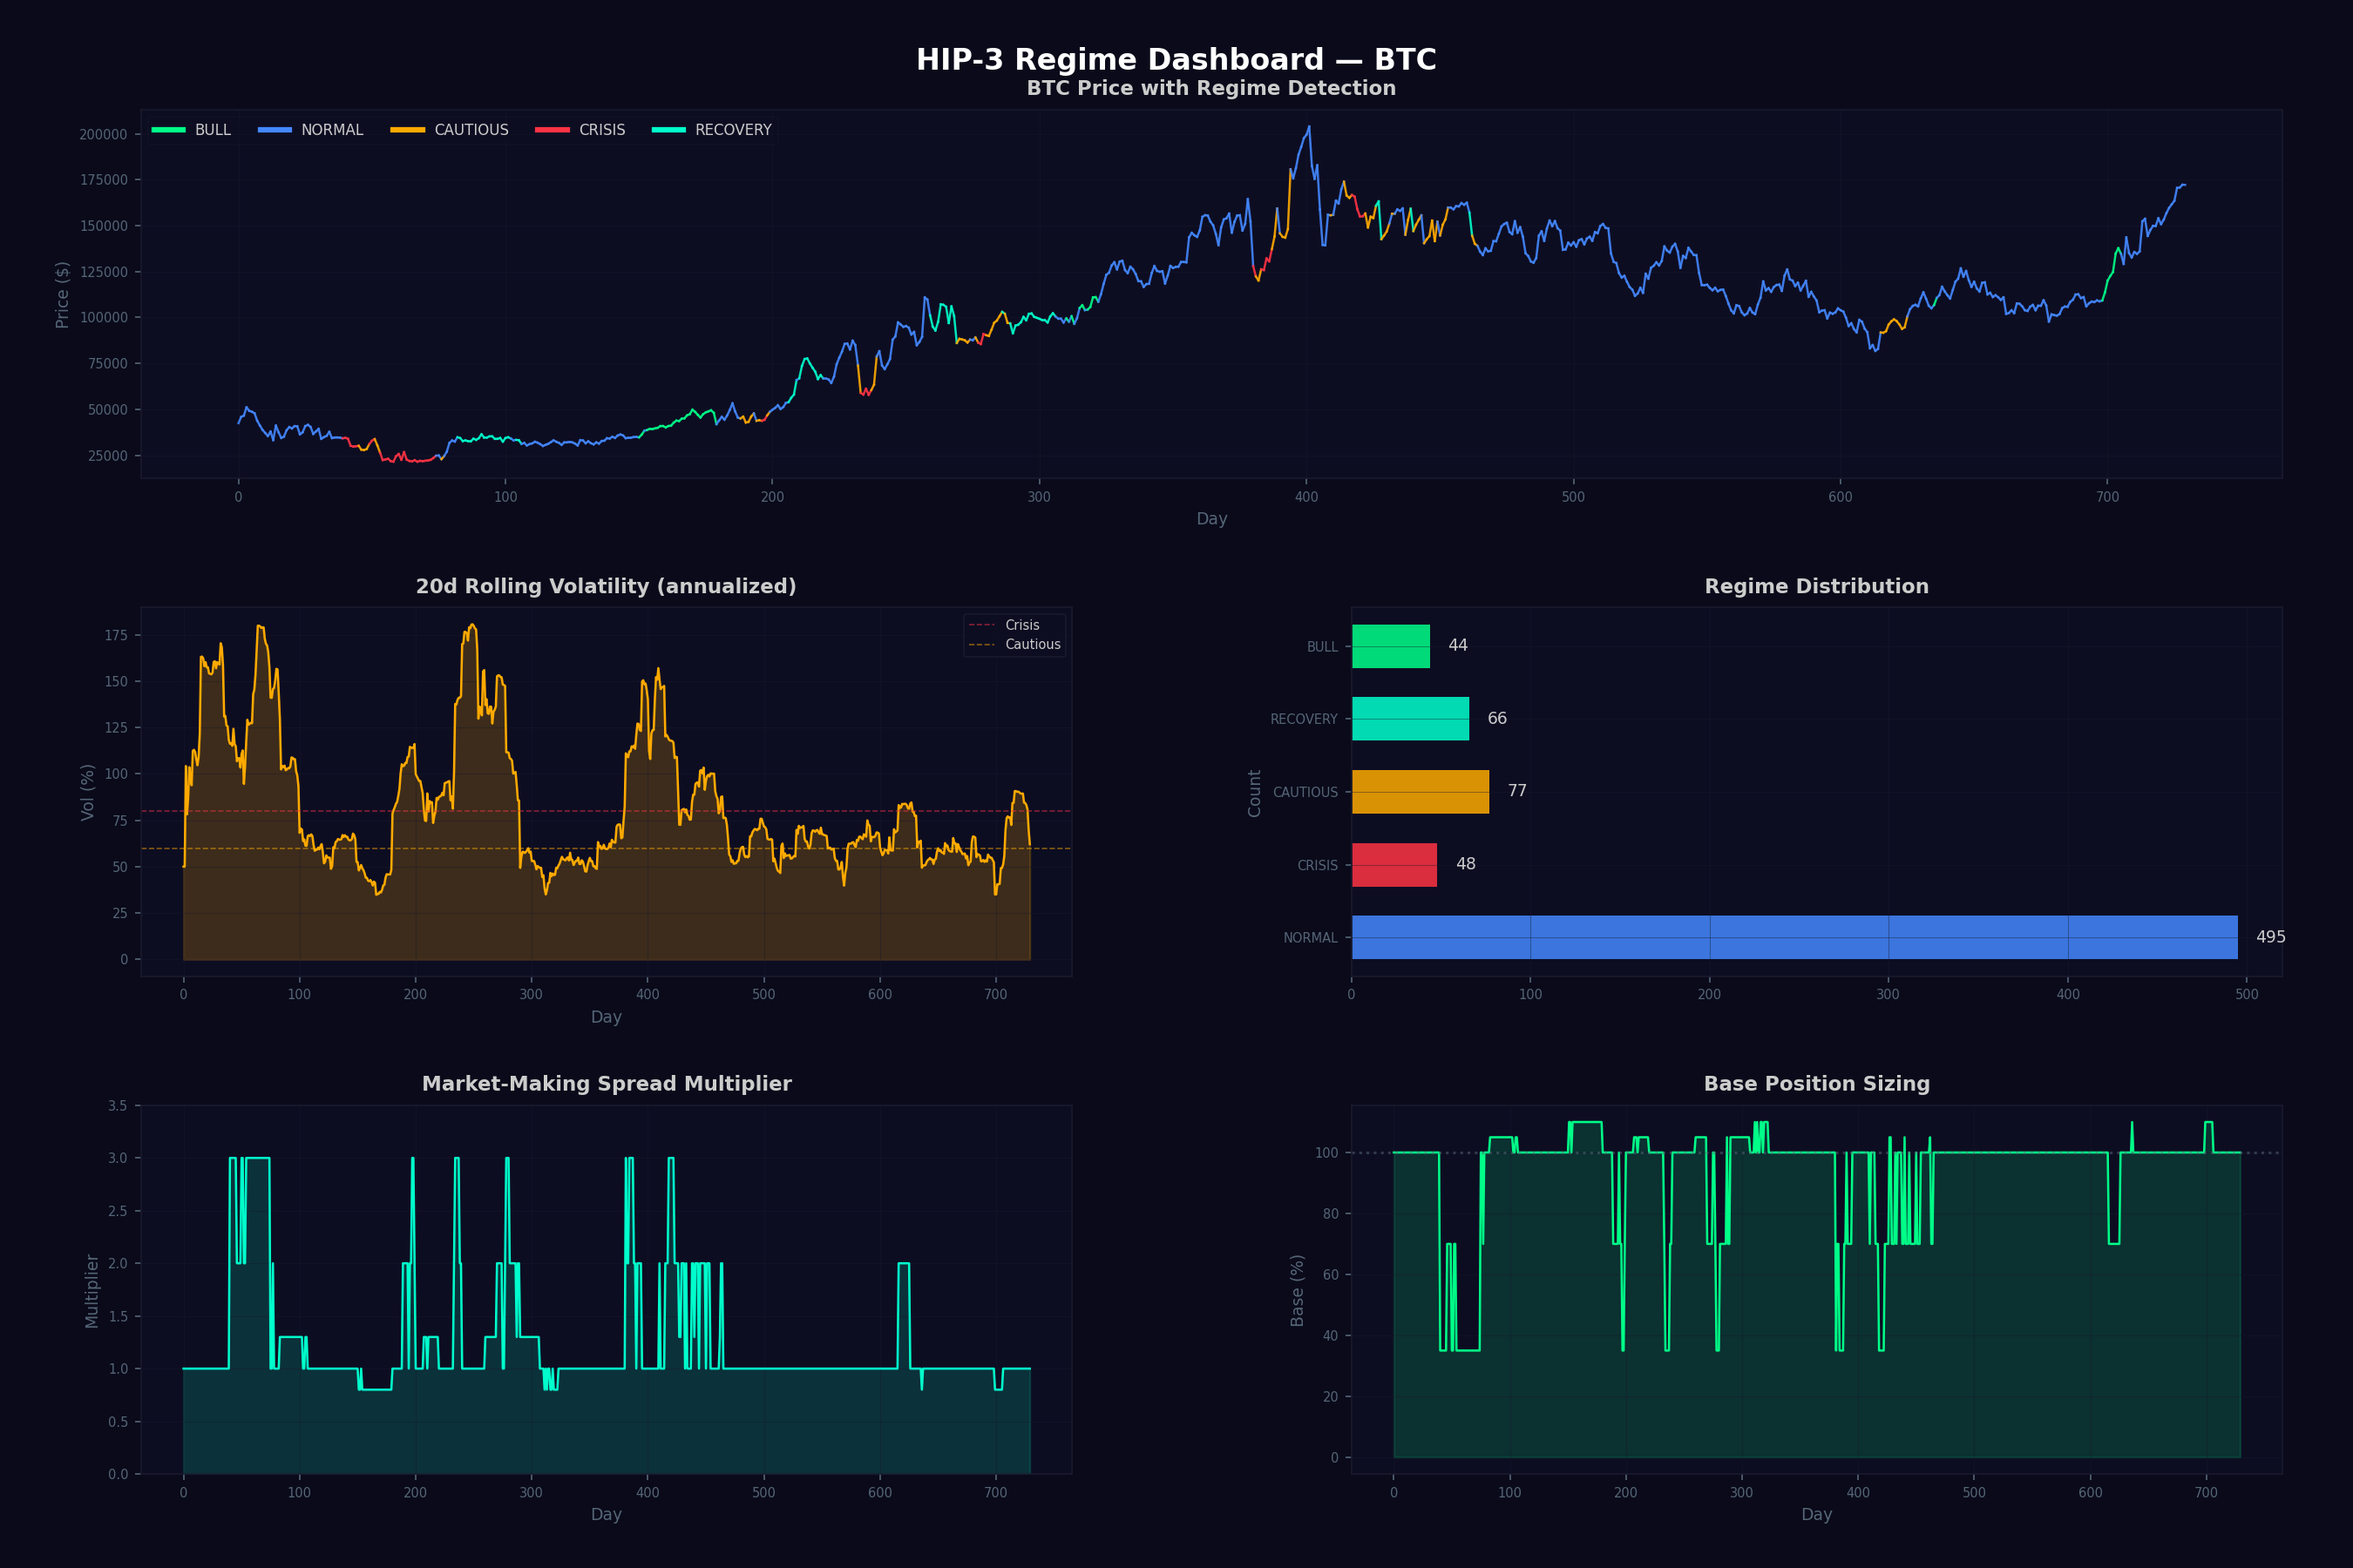
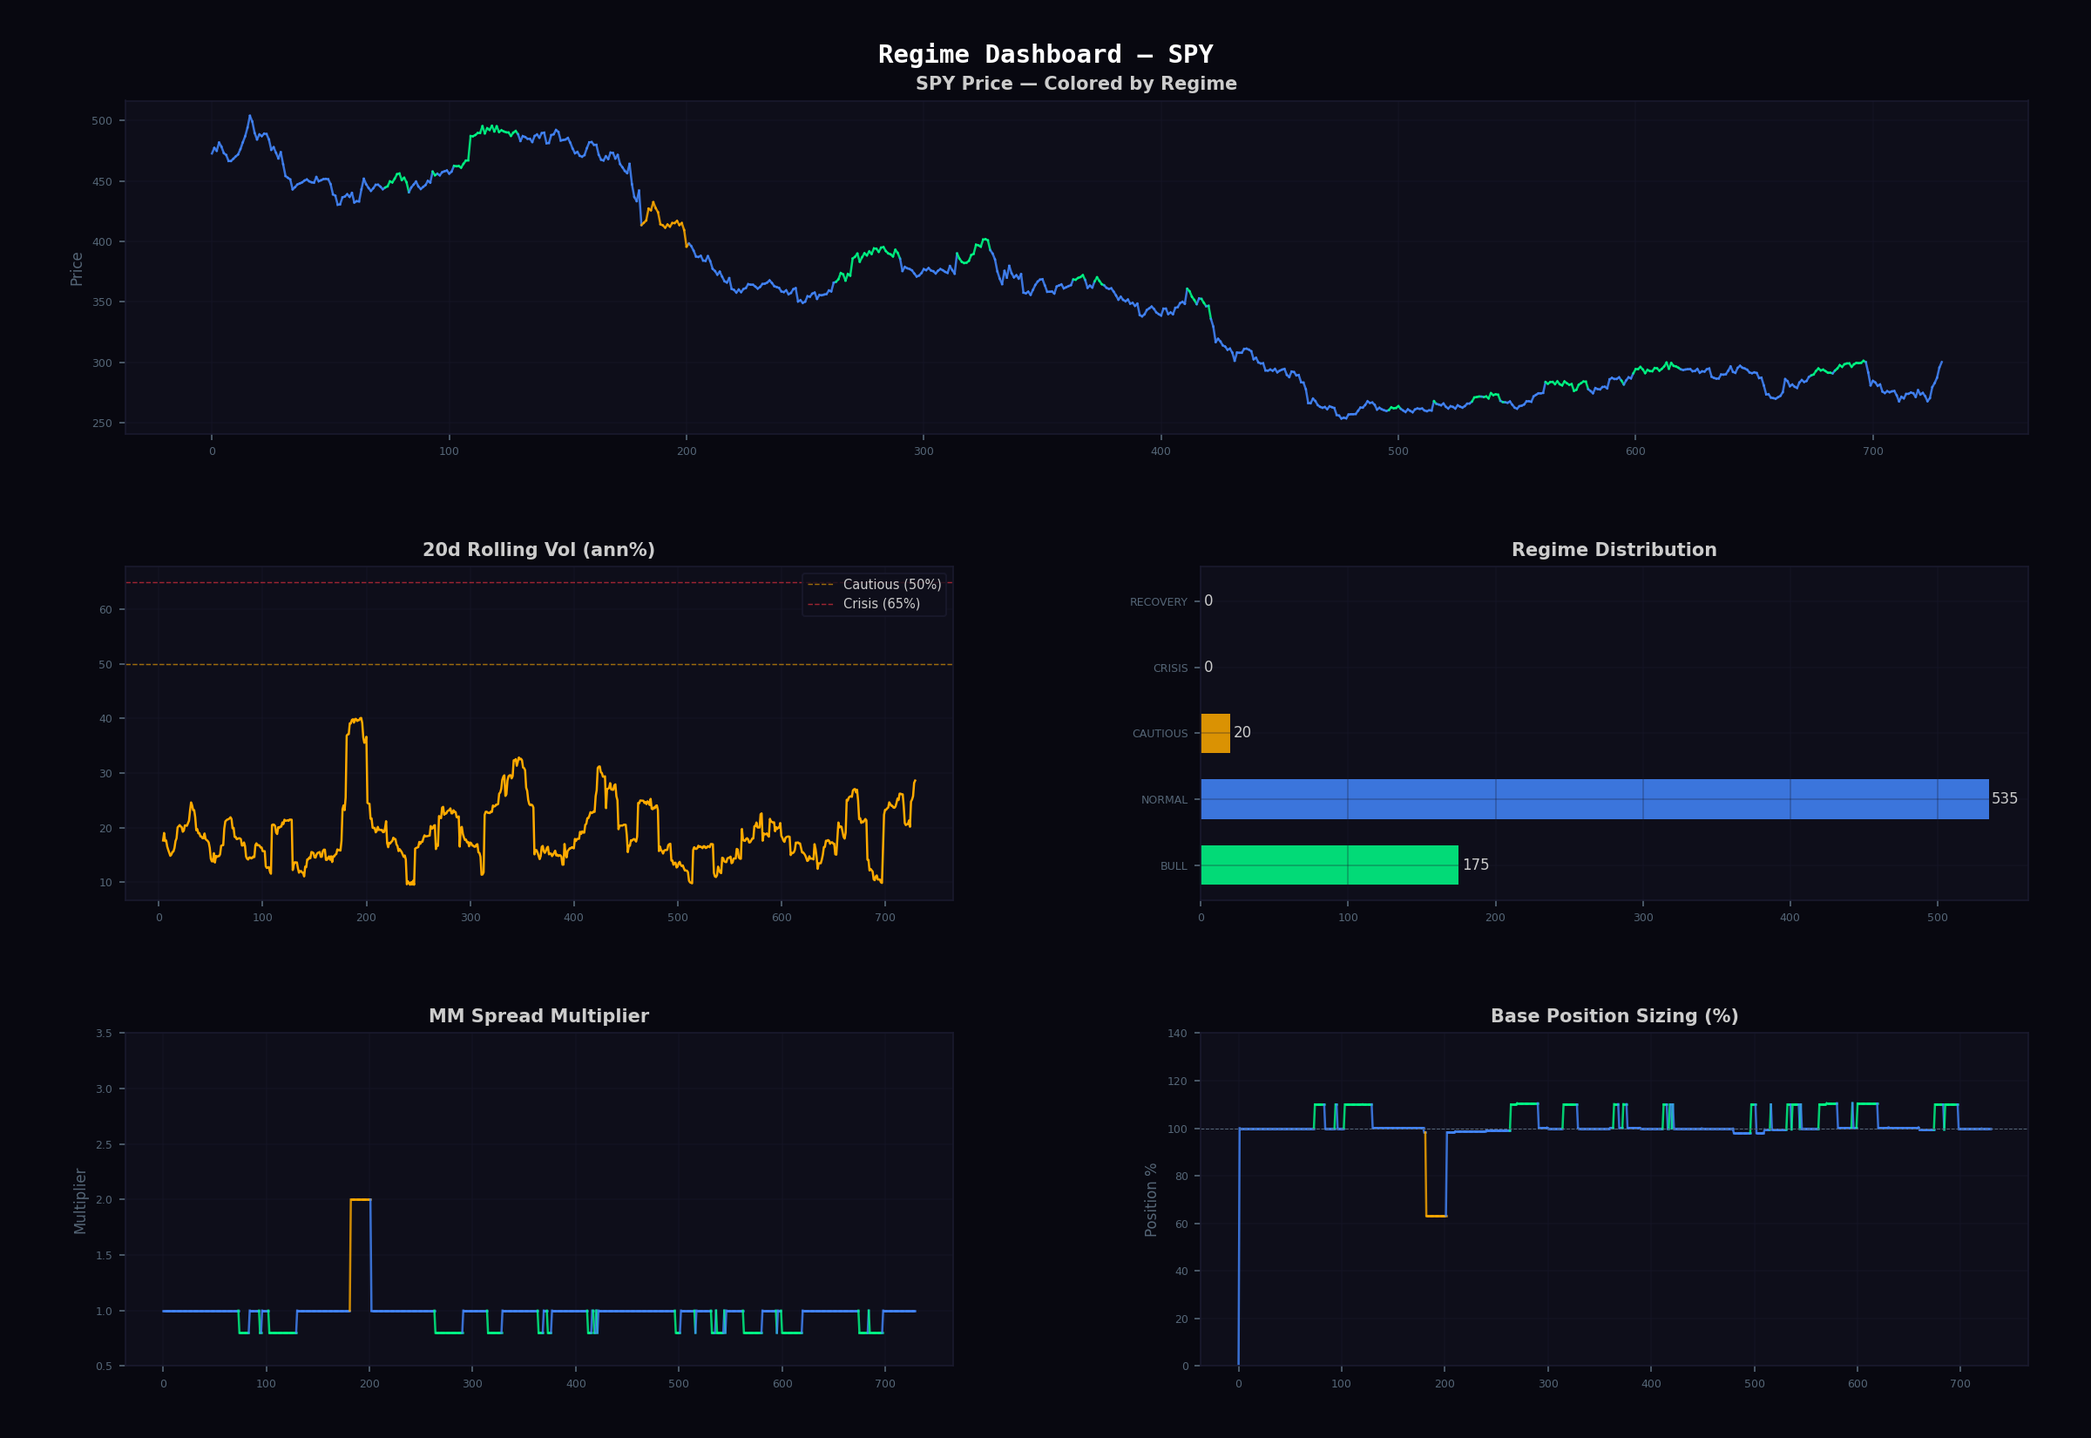
fix: regenerate regime dashboard with SPY instead of BTC
Add gen_regime() function to generate_hip3_visualizations.py that creates
the regime dashboard PNG using SPY data (5 panels: price by regime,
rolling vol, regime distribution, spread multiplier, position sizing).

https://claude.ai/code/session_01XKYxDF29UEftVNQg8JyFqG

diff --git a/scripts/generate_hip3_visualizations.py b/scripts/generate_hip3_visualizations.py
@@ -1,7 +1,7 @@
 #!/usr/bin/env python3
 """
 Generate animated GIF visualizations for HIP-3 vs IBKR IV Arbitrage.
-4 GIFs + 2 PNGs in dark terminal aesthetic matching the original repo.
+4 GIFs + 3 PNGs in dark terminal aesthetic matching the original repo.
 """
 import matplotlib
 matplotlib.use('Agg')
@@ -171,8 +171,66 @@ def gen_equity(curves):
         if (fi+1)%15==0: print(f'    {fi+1}/{TOTAL}')
     _gif(frames,OUT_DIR/'hip3_equity_curves.gif')
 
+def gen_regime(data, all_bt):
+    print('\n[5/7] hip3_regime_dashboard.png ...')
+    tk='SPY' if 'SPY' in data else list(data.keys())[0]
+    df=data[tk]; bt=all_bt[tk]; c=df['close'].values; N=len(c)
+    reg=bt['regimes']; pos=bt['positions']
+    # Rolling vol
+    rets=np.diff(np.log(c),prepend=np.log(c[0]))
+    rv=pd.Series(rets).rolling(20,min_periods=5).std().values*np.sqrt(365)*100
+    # Spread multiplier from regime
+    sp_map={'BULL':0.8,'NORMAL':1.0,'CAUTIOUS':2.0,'CRISIS':3.0,'RECOVERY':1.3}
+    sp_mult=np.array([sp_map.get(r,1.0) for r in reg])
+
+    fig=plt.figure(figsize=(16,11),facecolor=BG)
+    gs=GridSpec(3,2,hspace=0.4,wspace=0.3,left=.06,right=.97,top=.93,bottom=.05)
+    fig.suptitle(f'Regime Dashboard — {tk}',color=WHITE,fontsize=14,fontweight='bold',y=.97,fontfamily='monospace')
+    dy=np.arange(N)
+
+    # Top span: price colored by regime
+    ax=fig.add_subplot(gs[0,:]); _s(ax)
+    for i in range(1,N): ax.plot([i-1,i],[c[i-1],c[i]],color=REGIME_COLORS.get(reg[i],BLUE),lw=1.2,alpha=.85)
+    ax.set_title(f'{tk} Price — Colored by Regime',color=TEXT,fontsize=10,fontweight='bold')
+    ax.set_ylabel('Price',color=DIM,fontsize=8)
+
+    # Mid-Left: rolling vol
+    ax=fig.add_subplot(gs[1,0]); _s(ax)
+    ax.plot(dy,rv,color=YELLOW,lw=1.2)
+    ax.axhline(50,color=YELLOW,lw=.7,ls='--',alpha=.6,label='Cautious (50%)')
+    ax.axhline(65,color=RED,lw=.7,ls='--',alpha=.6,label='Crisis (65%)')
+    ax.set_title('20d Rolling Vol (ann%)',color=TEXT,fontsize=10,fontweight='bold')
+    ax.legend(fontsize=7,loc='upper right',facecolor=BG2,edgecolor=GRID_C,labelcolor=TEXT)
+
+    # Mid-Right: regime distribution
+    ax=fig.add_subplot(gs[1,1]); _s(ax)
+    labels=['BULL','NORMAL','CAUTIOUS','CRISIS','RECOVERY']
+    counts=[reg.count(l) for l in labels]
+    cols_bar=[REGIME_COLORS[l] for l in labels]
+    ax.barh(labels,counts,color=cols_bar,height=.6,alpha=.85)
+    ax.set_title('Regime Distribution',color=TEXT,fontsize=10,fontweight='bold')
+    for i,v in enumerate(counts): ax.text(v+2,i,str(v),color=TEXT,fontsize=8,va='center')
+
+    # Bottom-Left: spread multiplier
+    ax=fig.add_subplot(gs[2,0]); _s(ax)
+    for i in range(1,N): ax.plot([i-1,i],[sp_mult[i-1],sp_mult[i]],color=REGIME_COLORS.get(reg[i],BLUE),lw=1.2,alpha=.8)
+    ax.set_title('MM Spread Multiplier',color=TEXT,fontsize=10,fontweight='bold')
+    ax.set_ylabel('Multiplier',color=DIM,fontsize=8)
+    ax.set_ylim(0.5,3.5)
+
+    # Bottom-Right: position sizing
+    ax=fig.add_subplot(gs[2,1]); _s(ax)
+    for i in range(1,N): ax.plot([i-1,i],[pos[i-1]*100,pos[i]*100],color=REGIME_COLORS.get(reg[i],BLUE),lw=1.2,alpha=.8)
+    ax.axhline(100,color=DIM,lw=.5,ls='--')
+    ax.set_title('Base Position Sizing (%)',color=TEXT,fontsize=10,fontweight='bold')
+    ax.set_ylabel('Position %',color=DIM,fontsize=8)
+    ax.set_ylim(0,140)
+
+    fig.savefig(OUT_DIR/'hip3_regime_dashboard.png',dpi=150,facecolor=fig.get_facecolor())
+    plt.close(fig); print('  Saved hip3_regime_dashboard.png')
+
 def gen_heatmap(data):
-    print('\n[5/6] hip3_vol_spread_heatmap.png ...')
+    print('\n[6/7] hip3_vol_spread_heatmap.png ...')
     arb=IVArbitrageEngine(); assets=list(data.keys())
     nd=min(min(len(df) for df in data.values()),600); sm=[]
     for tk in assets:
@@ -192,7 +250,7 @@ def gen_heatmap(data):
     plt.close(fig); print('  Saved hip3_vol_spread_heatmap.png')
 
 def gen_summary(csv_path):
-    print('\n[6/6] hip3_arbitrage_summary.png ...')
+    print('\n[7/7] hip3_arbitrage_summary.png ...')
     if not csv_path.exists(): print('  No CSV, skip'); return
     df=pd.read_csv(csv_path)
     if df.empty: return
@@ -235,7 +293,7 @@ def main():
         f,_=generate_funding_history(c,seed=hash(tk)%2**31)
         bt=rolling_backtest_asset(o,h,l,c,f,arb.compute_hip3_implied_vol(c),arb.compute_ibkr_atm_iv(c),tk)
         all_bt[tk]=bt; curves[tk]=(bt['daily_pnl'][120:],bt['daily_bench'][120:])
-    gen_dashboard(data,all_bt); gen_iv(); gen_greeks(); gen_equity(curves); gen_heatmap(data)
+    gen_dashboard(data,all_bt); gen_iv(); gen_greeks(); gen_equity(curves); gen_regime(data,all_bt); gen_heatmap(data)
     csv=Path(__file__).resolve().parent.parent/'results'/'hip3_rolling_backtest_results.csv'
     if not csv.exists(): csv=Path(__file__).resolve().parent.parent/'results'/'hip3_backtest_results.csv'
     gen_summary(csv); print(f'\nDone! Output: {OUT_DIR}')
